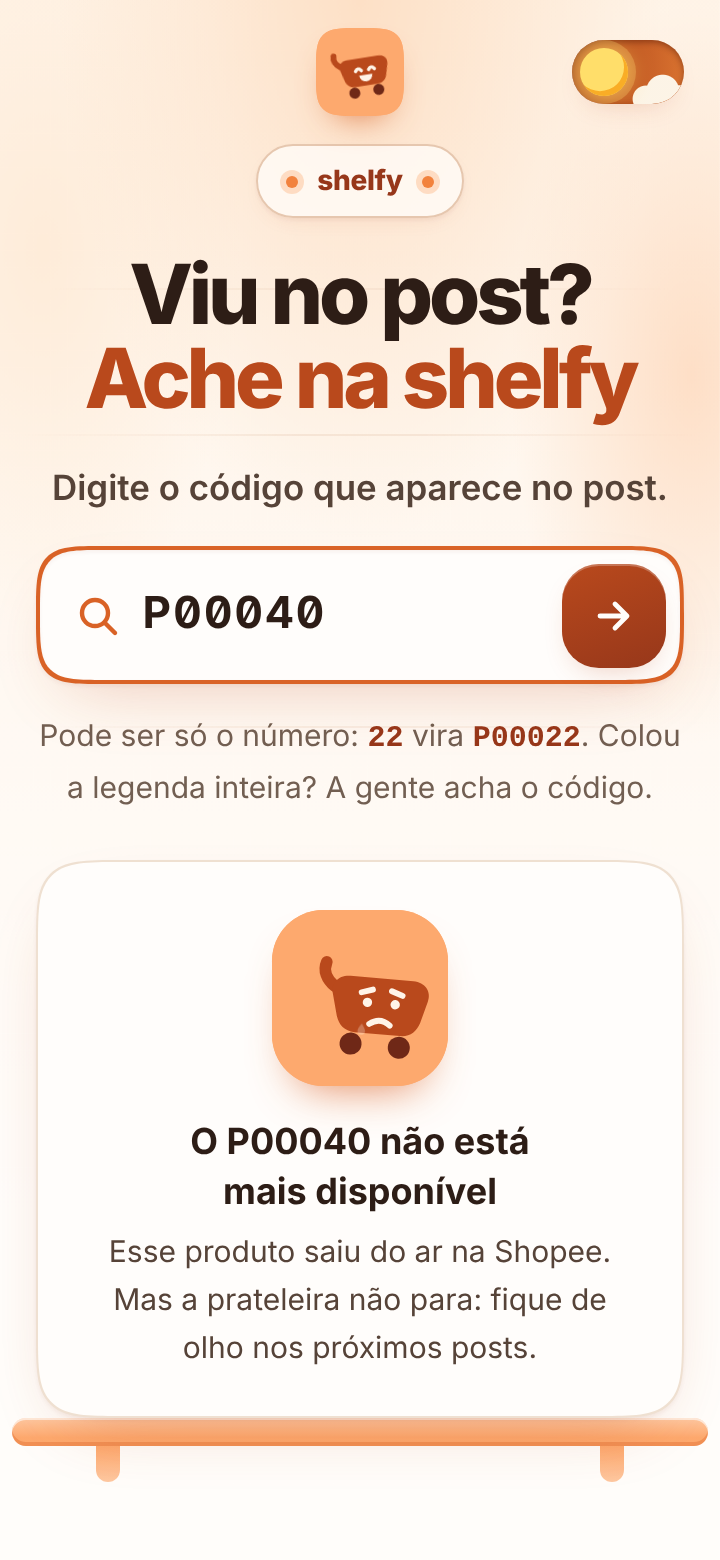
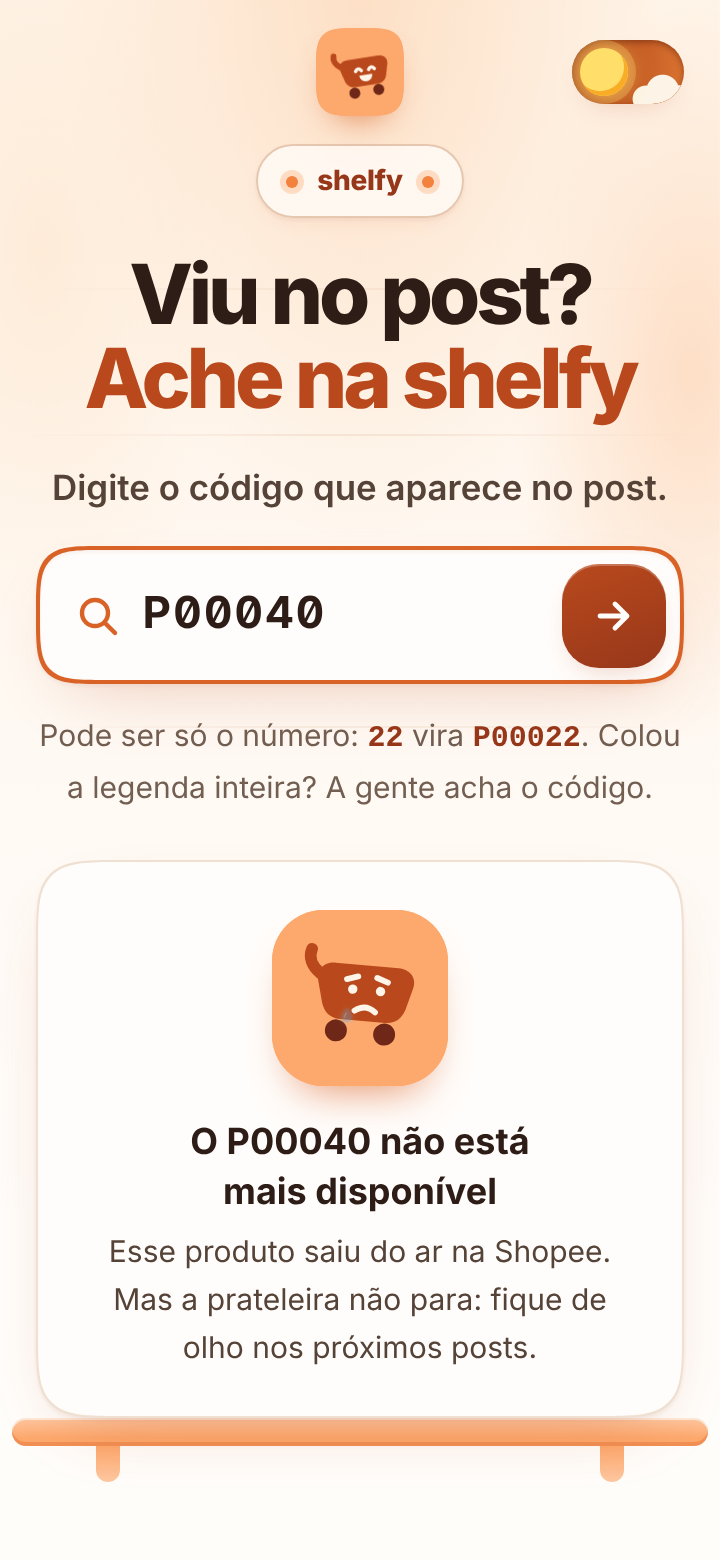
busca: centraliza o carrinho triste e deixa a lágrima azul brilhante
Claude-Session: https://claude.ai/code/session_01PheuA91mNK4ZoSj5M4VKDy

Changed region(s): [[0.4278, 0.5846, 0.6111, 0.6769]]

diff --git a/404.html b/404.html
@@ -121,7 +121,7 @@
 </template>
 
 <template id="tpl-sad-cart">
-  <svg class="sad-cart" viewBox="0 0 120 120" width="120" height="120" focusable="false"><rect width="120" height="120" fill="#fda96e"/><g class="carrinho"><g transform="translate(2 4) rotate(5 62 94)"><path d="M37 50c-6-4-9-10-7-16" fill="none" stroke="#b9491c" stroke-width="8" stroke-linecap="round"/><circle cx="51" cy="88" r="7.5" fill="#6f2817"/><circle cx="84" cy="88" r="7.5" fill="#6f2817"/><path d="M47 42h43c8 0 13 6 11 13l-4 15c-2 6-6 10-13 10H53c-7 0-11-4-13-10l-4-15c-2-7 3-13 11-13z" fill="#b9491c"/><g fill="none" stroke="#fff4e8" stroke-width="4" stroke-linecap="round"><path d="M55.5 52.5 63 50"/><path d="M76 50l7.5 2.5"/><path d="M62.5 73.5q7-5.5 14 0"/></g><circle cx="60" cy="59" r="3.2" fill="#fff4e8"/><circle cx="79" cy="59" r="3.2" fill="#fff4e8"/><path class="lagrima" d="M57.5 63.5c-2 3-3 4.6-3 6a3 3 0 0 0 6 0c0-1.4-1-3-3-6z" fill="#fff4e8"/></g></g></svg>
+  <svg class="sad-cart" viewBox="0 0 120 120" width="120" height="120" focusable="false"><rect width="120" height="120" fill="#fda96e"/><g class="carrinho"><g transform="translate(-8 -5) rotate(5 62 94)"><path d="M37 50c-6-4-9-10-7-16" fill="none" stroke="#b9491c" stroke-width="8" stroke-linecap="round"/><circle cx="51" cy="88" r="7.5" fill="#6f2817"/><circle cx="84" cy="88" r="7.5" fill="#6f2817"/><path d="M47 42h43c8 0 13 6 11 13l-4 15c-2 6-6 10-13 10H53c-7 0-11-4-13-10l-4-15c-2-7 3-13 11-13z" fill="#b9491c"/><g fill="none" stroke="#fff4e8" stroke-width="4" stroke-linecap="round"><path d="M55.5 52.5 63 50"/><path d="M76 50l7.5 2.5"/><path d="M62.5 73.5q7-5.5 14 0"/></g><circle cx="60" cy="59" r="3.2" fill="#fff4e8"/><circle cx="79" cy="59" r="3.2" fill="#fff4e8"/><g class="lagrima"><path d="M57.5 62c-2.6 3.9-4 6-4 7.8a4 4 0 0 0 8 0c0-1.8-1.4-3.9-4-7.8z" fill="#38b6ff"/><path d="M55.7 69.6q.1-1.8 1.2-3.2" fill="none" stroke="#e6f7ff" stroke-width="1.3" stroke-linecap="round"/></g></g></g></svg>
 </template>
 
 <template id="tpl-loading">

diff --git a/index.html b/index.html
@@ -200,7 +200,7 @@
 </template>
 
 <template id="tpl-sad-cart">
-  <svg class="sad-cart" viewBox="0 0 120 120" width="120" height="120" focusable="false"><rect width="120" height="120" fill="#fda96e"/><g class="carrinho"><g transform="translate(2 4) rotate(5 62 94)"><path d="M37 50c-6-4-9-10-7-16" fill="none" stroke="#b9491c" stroke-width="8" stroke-linecap="round"/><circle cx="51" cy="88" r="7.5" fill="#6f2817"/><circle cx="84" cy="88" r="7.5" fill="#6f2817"/><path d="M47 42h43c8 0 13 6 11 13l-4 15c-2 6-6 10-13 10H53c-7 0-11-4-13-10l-4-15c-2-7 3-13 11-13z" fill="#b9491c"/><g fill="none" stroke="#fff4e8" stroke-width="4" stroke-linecap="round"><path d="M55.5 52.5 63 50"/><path d="M76 50l7.5 2.5"/><path d="M62.5 73.5q7-5.5 14 0"/></g><circle cx="60" cy="59" r="3.2" fill="#fff4e8"/><circle cx="79" cy="59" r="3.2" fill="#fff4e8"/><path class="lagrima" d="M57.5 63.5c-2 3-3 4.6-3 6a3 3 0 0 0 6 0c0-1.4-1-3-3-6z" fill="#fff4e8"/></g></g></svg>
+  <svg class="sad-cart" viewBox="0 0 120 120" width="120" height="120" focusable="false"><rect width="120" height="120" fill="#fda96e"/><g class="carrinho"><g transform="translate(-8 -5) rotate(5 62 94)"><path d="M37 50c-6-4-9-10-7-16" fill="none" stroke="#b9491c" stroke-width="8" stroke-linecap="round"/><circle cx="51" cy="88" r="7.5" fill="#6f2817"/><circle cx="84" cy="88" r="7.5" fill="#6f2817"/><path d="M47 42h43c8 0 13 6 11 13l-4 15c-2 6-6 10-13 10H53c-7 0-11-4-13-10l-4-15c-2-7 3-13 11-13z" fill="#b9491c"/><g fill="none" stroke="#fff4e8" stroke-width="4" stroke-linecap="round"><path d="M55.5 52.5 63 50"/><path d="M76 50l7.5 2.5"/><path d="M62.5 73.5q7-5.5 14 0"/></g><circle cx="60" cy="59" r="3.2" fill="#fff4e8"/><circle cx="79" cy="59" r="3.2" fill="#fff4e8"/><g class="lagrima"><path d="M57.5 62c-2.6 3.9-4 6-4 7.8a4 4 0 0 0 8 0c0-1.8-1.4-3.9-4-7.8z" fill="#38b6ff"/><path d="M55.7 69.6q.1-1.8 1.2-3.2" fill="none" stroke="#e6f7ff" stroke-width="1.3" stroke-linecap="round"/></g></g></g></svg>
 </template>
 
 <template id="tpl-loading">

diff --git a/css/site.css b/css/site.css
@@ -1692,12 +1692,13 @@
 
   .sad-cart .carrinho {
     transform-box: view-box;
-    transform-origin: 62px 98px;
+    transform-origin: 60px 94px;
   }
 
   .sad-cart .lagrima {
     transform-box: fill-box;
     transform-origin: top;
+    filter: drop-shadow(0 0 1.5px #7fd4ff);
   }
 
   .notice[data-tone="error"] .notice-icon,
